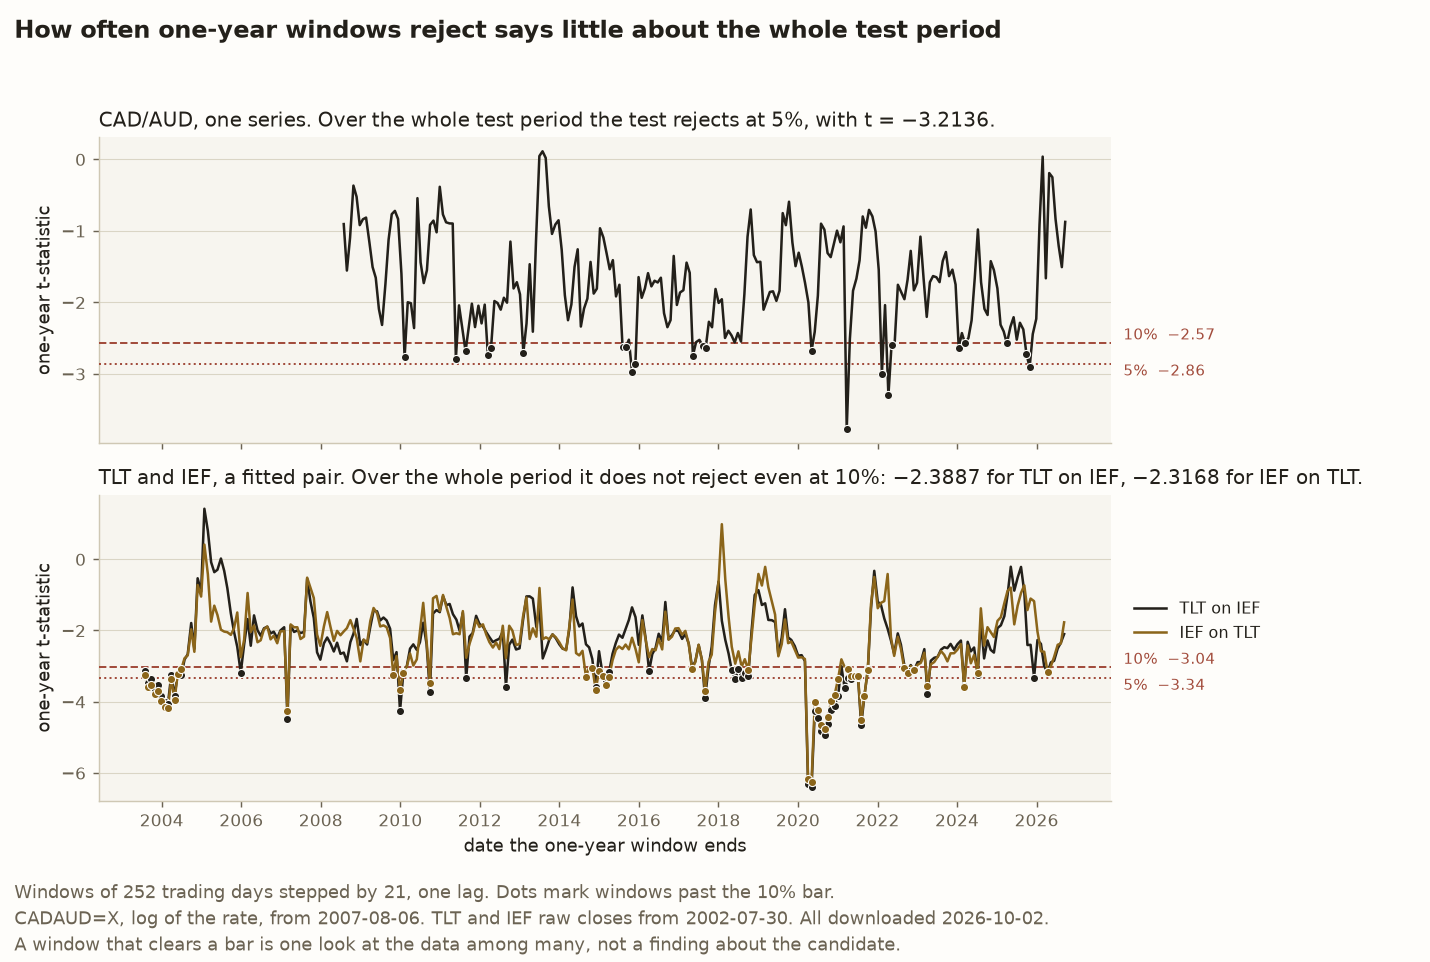
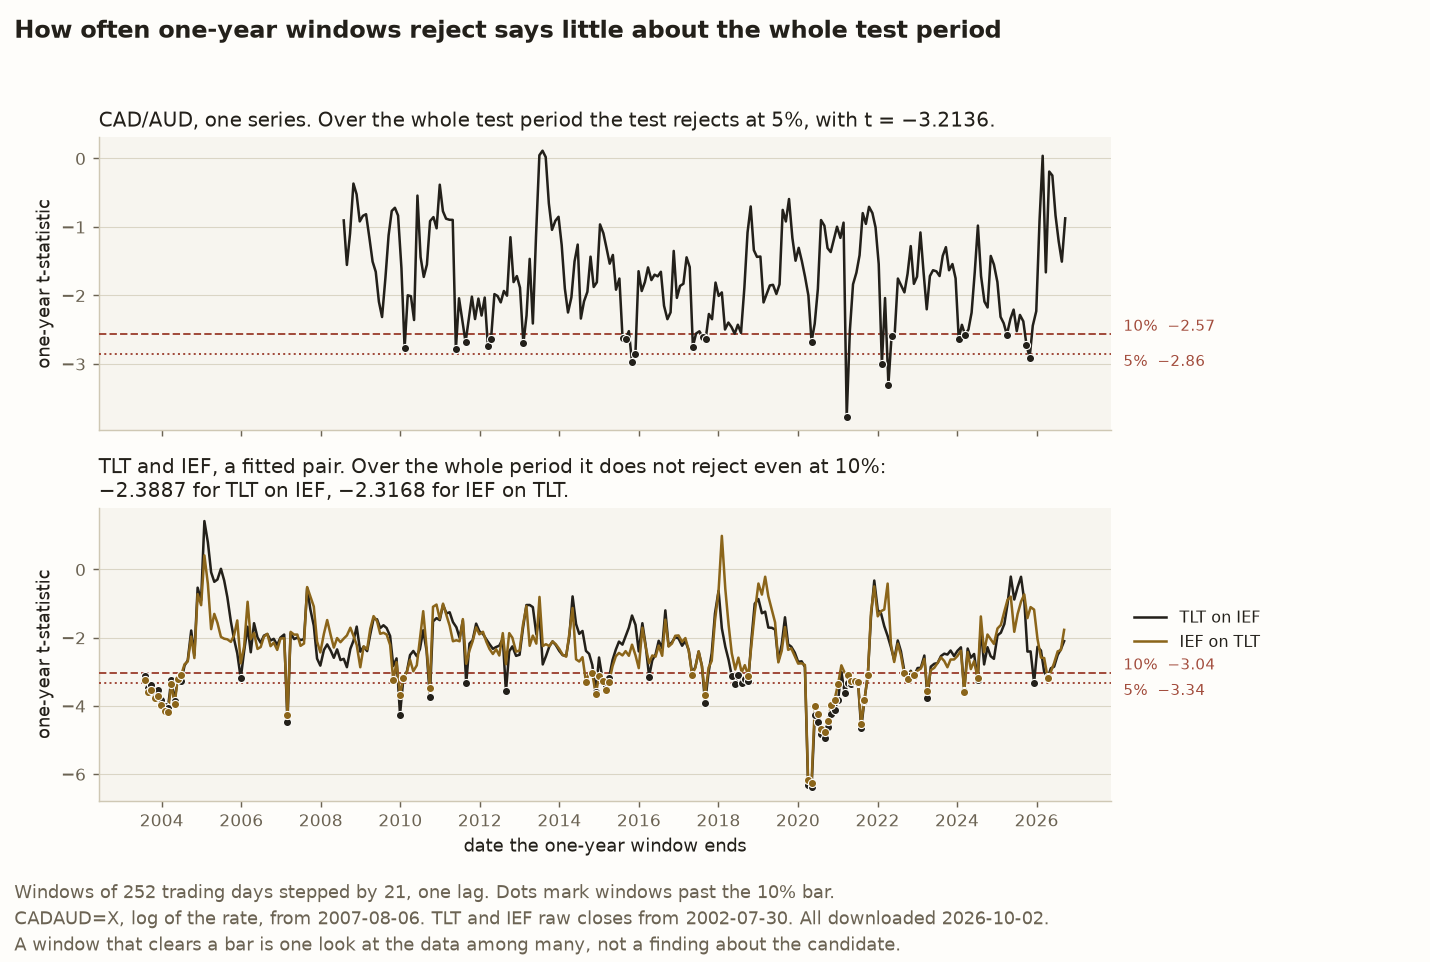
fix(figures): act on the lag figure's review
- The pair's leader lines run across and then straight up to lag 31, where
  the straight lines read as pointing at the hollow dot at 30, and TLT's
  dots are drawn larger so IEF's sit inside them rather than hiding them.
- The titles say what the panels show: the check picks which lag count's
  statistic is read, CAD/AUD's first passing fit sits nearer the 5% bar, and
  no count of the pair's reaches the 10% bar, which a test now pins.
- Both labels read "first passes at", the window figure's lower title wraps
  inside the plot, and the alt text names CAD/AUD's hollow dots at 23 to 25
  lags, which a test pins.
- Tests now hold the dots' heights, each legend's names against its line
  colours, the full set of bars on each panel, and the y labels. Five
  mutations the review found surviving now fail a test each.
- The register row gives the three reversals in the order they happened.

diff --git a/tests/test_stationary_candidates_figures.py b/tests/test_stationary_candidates_figures.py
@@ -377,7 +377,15 @@ class TestTheWindows:
             assert set(bar.get_ydata()) == {table[level]}
             assert bar.get_linestyle() == style
             assert _rgb(bar.get_color()) == _rgb(LOST)
-        assert f"bar-{'eg' if name == 'adf' else 'adf'}-10%" not in lines
+        assert {g for g in lines if g.startswith("bar-")} == {f"bar-{name}-10%", f"bar-{name}-5%"}
+
+    def test_the_legend_names_each_orientation_in_its_line_s_colour(self, windows) -> None:
+        legend = windows.axes[1].get_legend()
+        named = {
+            t.get_text(): _rgb(h.get_color())
+            for t, h in zip(legend.get_texts(), legend.legend_handles, strict=True)
+        }
+        assert named == {"TLT on IEF": _rgb(INK), "IEF on TLT": _rgb(ACCENT)}
 
     def test_the_bar_labels_name_each_level(self, windows) -> None:
         assert [t.get_text() for t in windows.axes[0].texts] == ["10%  −2.57", "5%  −2.86"]
@@ -391,8 +399,8 @@ class TestTheWindows:
             "with t = −3.2136."
         )
         assert windows.axes[1].get_title(loc="left") == (
-            "TLT and IEF, a fitted pair. Over the whole period it does not reject even at "
-            "10%: −2.3887 for TLT on IEF, −2.3168 for IEF on TLT."
+            "TLT and IEF, a fitted pair. Over the whole period it does not reject even at 10%:\n"
+            "−2.3887 for TLT on IEF, −2.3168 for IEF on TLT."
         )
 
     def test_the_panels_share_one_date_axis(self, windows) -> None:
@@ -487,8 +495,12 @@ class TestTheLags:
         assert list(line.get_ydata()) == [c.adf_stat for c in checks]
         assert _rgb(line.get_color()) == _rgb(colour)
         filled, hollow = lines[f"pass-{gid}"], lines[f"fail-{gid}"]
-        assert list(filled.get_xdata()) == [c.lags for c in checks if residuals_pass(c)]
-        assert list(hollow.get_xdata()) == [c.lags for c in checks if not residuals_pass(c)]
+        passed = [c for c in checks if residuals_pass(c)]
+        failed = [c for c in checks if not residuals_pass(c)]
+        assert list(filled.get_xdata()) == [c.lags for c in passed]
+        assert list(filled.get_ydata()) == [c.adf_stat for c in passed]
+        assert list(hollow.get_xdata()) == [c.lags for c in failed]
+        assert list(hollow.get_ydata()) == [c.adf_stat for c in failed]
         assert _rgb(filled.get_markerfacecolor()) == _rgb(colour)
         assert hollow.get_markerfacecolor() == "none"
         assert _rgb(hollow.get_markeredgecolor()) == _rgb(colour)
@@ -498,12 +510,25 @@ class TestTheLags:
         assert max(stats) < ADF_CRIT_CONST["5%"]
         assert max(stats) == pytest.approx(-2.8739, abs=5e-5)
 
+    def test_the_rate_fails_the_check_below_10_lags_and_again_at_23_to_25(self, sweeps) -> None:
+        """The post's alt text names both stretches of hollow dots."""
+        failed = [c.lags for c in sweeps["cadaud"] if not residuals_pass(c)]
+        assert failed == [*range(10), 23, 24, 25]
+
+    def test_no_pair_fit_reaches_the_10_percent_bar_as_the_panel_title_says(self, sweeps) -> None:
+        """The lowest statistic in either sweep is the one-lag fit's."""
+        for gid, one_lag in (("tlt-on-ief", -2.3887), ("ief-on-tlt", -2.3168)):
+            stats = [c.adf_stat for c in sweeps[gid]]
+            assert min(stats) > EG_CRIT_N2["10%"]
+            assert min(stats) == pytest.approx(one_lag, abs=5e-5) == stats[1]
+            assert [c.lags for c in sweeps[gid] if residuals_pass(c)] == [31, 32, 33, 34]
+
     def test_the_first_passing_fits_are_labelled_where_they_sit(self, lags) -> None:
         labelled = [
             (t.get_text(), t.xy) for ax in lags.axes[:2] for t in ax.texts if "pass" in t.get_text()
         ]
         assert [text for text, _ in labelled] == [
-            "first count that passes: 10 lags, −2.9946",
+            "CAD/AUD, first passes at 10 lags, −2.9946",
             "TLT on IEF, first passes at 31 lags, −1.5677",
             "IEF on TLT, first passes at 31 lags, −1.5387",
         ]
@@ -517,20 +542,31 @@ class TestTheLags:
         lines = _lines(lags.axes[panel])
         for level in ("10%", "5%"):
             assert set(lines[f"bar-{name}-{level}"].get_ydata()) == {table[level]}
+        assert {g for g in lines if g.startswith("bar-")} == {f"bar-{name}-10%", f"bar-{name}-5%"}
+
+    def test_the_legend_names_each_orientation_in_its_line_s_colour(self, lags) -> None:
+        legend = lags.axes[1].get_legend()
+        named = {
+            t.get_text(): _rgb(h.get_color())
+            for t, h in zip(legend.get_texts(), legend.legend_handles, strict=True)
+        }
+        assert named == {"TLT on IEF": _rgb(INK), "IEF on TLT": _rgb(ACCENT)}
 
     def test_the_text_says_what_each_panel_shows(self, lags) -> None:
         top, bottom = lags.axes[:2]
         assert top.get_title(loc="left") == (
-            "CAD/AUD. The check shrinks the margin: every count up to 32 still rejects at 5%."
+            "CAD/AUD. The first fit that passes sits nearer the 5% bar, and every count up to "
+            "32 still rejects at 5%."
         )
         assert bottom.get_title(loc="left") == (
-            "TLT and IEF. The check strengthens the finding: the first fits that pass sit "
-            "further from the bar."
+            "TLT and IEF. The first fits that pass sit further from both bars than the one-lag "
+            "fits, and no count reaches the 10% bar."
         )
+        assert [ax.get_ylabel() for ax in (top, bottom)] == ["t-statistic"] * 2
         assert top.get_shared_x_axes().joined(top, bottom)
         assert bottom.get_xlabel() == "lag count, the number of earlier changes the ADF includes"
         assert lags._suptitle.get_text() == (
-            "Checking each fit for leftover autocorrelation moves the statistic"
+            "The check for leftover autocorrelation decides which lag count's statistic is read"
         )
         assert lags.texts[-1].get_text() == (
             "Each dot is one ADF fit over the whole test period. Filled: its residuals pass "

diff --git a/src/chan/stationary_candidates_figures.py b/src/chan/stationary_candidates_figures.py
@@ -329,8 +329,8 @@ def make_windows_figure(
         )
     _bar_lines(bottom, EG_CRIT_N2, "eg")
     bottom.set_title(
-        "TLT and IEF, a fitted pair. Over the whole period it does not reject even at "
-        f"10%: {_t(by[LONG].fit.adf_stat)} for TLT on IEF, "
+        "TLT and IEF, a fitted pair. Over the whole period it does not reject even at 10%:\n"
+        f"{_t(by[LONG].fit.adf_stat)} for TLT on IEF, "
         f"{_t(by[INTERMEDIATE].fit.adf_stat)} for IEF on TLT.",
         color=INK,
         fontsize=11,
@@ -367,7 +367,9 @@ def lag_sweep(series, ceiling: int, regression: str) -> list[ResidualCheck]:
     return [residual_check(series, lags, regression=regression) for lags in range(ceiling + 1)]
 
 
-def _sweep(ax, checks: list[ResidualCheck], colour: str, label: str, gid: str) -> None:
+def _sweep(
+    ax, checks: list[ResidualCheck], colour: str, label: str, gid: str, ms: float = 5.5
+) -> None:
     """One sweep as a line, with each lag count filled if it passes."""
     lags = [c.lags for c in checks]
     stats = [c.adf_stat for c in checks]
@@ -378,7 +380,7 @@ def _sweep(ax, checks: list[ResidualCheck], colour: str, label: str, gid: str) -
             [c.lags for c in picked],
             [c.adf_stat for c in picked],
             "o",
-            ms=5.5,
+            ms=ms,
             color=colour,
             mfc=face,
             mec=colour,
@@ -388,16 +390,28 @@ def _sweep(ax, checks: list[ResidualCheck], colour: str, label: str, gid: str) -
         )
 
 
-def _first_pass(ax, checks: list[ResidualCheck], text: str, offset: tuple[float, float]) -> None:
+def _first_pass(
+    ax, checks: list[ResidualCheck], text: str, offset: tuple[float, float], below: bool = False
+) -> None:
+    """Label the first passing fit.
+
+    ``below`` sets the label under and to the left of the point, joined by a
+    leader that runs across and then straight up. A straight leader from there
+    would cross the hollow dot one lag count earlier and read as pointing at
+    it, which is how the pair's labels first came out."""
     first = next(c for c in checks if residuals_pass(c))
+    arrow = {"arrowstyle": "-", "color": MUTED, "lw": 0.8}
+    if below:
+        arrow |= {"connectionstyle": "angle,angleA=0,angleB=90,rad=0", "relpos": (1.0, 0.5)}
     ax.annotate(
         text.format(lags=first.lags, t=_t(first.adf_stat)),
         (first.lags, first.adf_stat),
         xytext=offset,
         textcoords="offset points",
+        ha="right" if below else "left",
         color=INK,
         fontsize=9.5,
-        arrowprops={"arrowstyle": "-", "color": MUTED, "lw": 0.8},
+        arrowprops=arrow,
     )
 
 
@@ -422,16 +436,21 @@ def make_lags_figure(
 
     _sweep(top, rate_checks, INK, "CAD/AUD", "cadaud")
     _bar_lines(top, ADF_CRIT_CONST, "adf")
-    _first_pass(top, rate_checks, "first count that passes: {lags} lags, {t}", (30, 48))
+    _first_pass(top, rate_checks, "CAD/AUD, first passes at {lags} lags, {t}", (30, 48))
     top.set_title(
-        f"CAD/AUD. The check shrinks the margin: every count up to {rate.ceiling} still "
-        "rejects at 5%.",
+        "CAD/AUD. The first fit that passes sits nearer the 5% bar, and every count up to "
+        f"{rate.ceiling} still rejects at 5%.",
         color=INK,
         fontsize=11,
         loc="left",
     )
 
-    for leg, colour, offset in ((LONG, INK, (-250, -78)), (INTERMEDIATE, ACCENT, (-250, -98))):
+    # TLT's dots are drawn larger and first, so IEF's sit inside them and both
+    # show where the two sweeps all but coincide.
+    for leg, colour, offset, ms in (
+        (LONG, INK, (-14, -78), 7.5),
+        (INTERMEDIATE, ACCENT, (-14, -98), 4.5),
+    ):
         o = by[leg]
         name = f"{o.dependent} on {o.independent}"
         _sweep(
@@ -440,12 +459,15 @@ def make_lags_figure(
             colour,
             name,
             f"{o.dependent.lower()}-on-{o.independent.lower()}",
+            ms,
         )
-        _first_pass(bottom, pair_checks[leg], name + ", first passes at {lags} lags, {t}", offset)
+        _first_pass(
+            bottom, pair_checks[leg], name + ", first passes at {lags} lags, {t}", offset, True
+        )
     _bar_lines(bottom, EG_CRIT_N2, "eg")
     bottom.set_title(
-        "TLT and IEF. The check strengthens the finding: the first fits that pass sit "
-        "further from the bar.",
+        "TLT and IEF. The first fits that pass sit further from both bars than the one-lag "
+        "fits, and no count reaches the 10% bar.",
         color=INK,
         fontsize=11,
         loc="left",
@@ -461,7 +483,7 @@ def make_lags_figure(
 
     _title(
         fig,
-        "Checking each fit for leftover autocorrelation moves the statistic",
+        "The check for leftover autocorrelation decides which lag count's statistic is read",
         "Each dot is one ADF fit over the whole test period. Filled: its residuals pass "
         "both halves of the check, a Breusch-Godfrey p-value above 0.10\n"
         "and all ten autocorrelations inside ±1.96/√n. Hollow: they fail. "

diff --git a/docs/design.md b/docs/design.md
@@ -529,7 +529,7 @@ change that cuts it.
 | Porting the sibling's `simulate_sizing` for the coin-flip simulation | It folds draws through `equity *= (1 + fraction * r)`, which is the identity Box 6.1 needs, and nothing around that line carries over: an empirical bag of trade outcomes rather than a known two-point distribution, percentiles and ruin probabilities rather than a growth rate, and `random.Random` rather than the `numpy.random.default_rng` this repo uses throughout. A port would have been a rewrite. |
 | Moving the growth arithmetic to `ithildincore` | The bar there is two repositories, not two call sites, and the duplication does not exist. `ithildincore` holds no growth function and the sibling holds one line inside a grid search, so a shared module today would have one consumer and a plan. The price is named rather than hidden: a second implementation later if [issue 14](https://github.com/l3a0/quantitative-trading/issues/14) needs the same arithmetic. That is the moment to re-ask, because it is the first at which a second real consumer could exist. Re-asked when [issue 14](https://github.com/l3a0/quantitative-trading/issues/14) shipped and the answer is unchanged. The sibling repo was searched at `cc1ec3a` and holds no leverage or growth arithmetic at all, only a Sharpe ratio written twice as a four-line private helper inside a strategy module, so there is still one consumer and a plan. [Issue 14](https://github.com/l3a0/quantitative-trading/issues/14)'s own arithmetic shares no function with the coin flip either, since one computes a leverage from a return series' moments and the other a growth rate over two outcomes. |
 | A figure for the coin-flip divergence | `docs/figures` held one image when this was decided, and it already cost three copies to keep in step, one file and two embeds, plus a redraw in the same change that moves it. The divergence is four rows of capital, which a terminal table and a log row carry without adding a third copy of a number the suite already pins. [blog/coin-toss-expected-value-vs-growth.md](../blog/coin-toss-expected-value-vs-growth.md) later added that third copy, as a four-row table of ratios, so a re-pin now moves three surfaces. That is still text a re-pin edits in place, where an image would need a redraw and its embeds. **Reversed by the owner on 2026-09-29**, who chose three figures for that post knowing this row: growth against the stake, a fan of capital paths, and the distribution of final balances. [src/chan/coin_flip_figures.py](../src/chan/coin_flip_figures.py) draws them and [tests/test_coin_flip_figures.py](../tests/test_coin_flip_figures.py) pins what they draw. The cost named above is now paid, three files and three embeds plus a redraw in any change that moves them. The owner added two more the same day, for Lesson 6, so the count is five of each. The row stays so the reasoning and its reversal are read together. |
-| Figures for the stationary candidates | Ruled out on [issue 16](https://github.com/l3a0/quantitative-trading/issues/16), on the reasoning of the regime-map row above: the candidates' rolling scans are pinned, so a picture of them is presentation, and each of the three scans invites reading one window as a finding. **Reversed by the owner on 2026-10-02** for [blog/stationary-candidates-lessons.md](../blog/stationary-candidates-lessons.md), first for figures that draw no scan and then for the scans themselves. The post carries three. The first is two number lines carrying the bars of the ADF with a constant and of Engle-Granger, with the cross rate's and the bond pair's statistics over the whole test period on them. The second draws each candidate's statistic at every lag count up to the ceiling, filled where the residuals pass the check. Neither draws a window. The third draws the rolling scans, so the second reversal reaches the whole ruling. It responds to the objection in words rather than avoiding it: its title says how often one-year windows reject says little about the whole test period, each panel's title gives the result over that period, its note says a window that clears a bar is not a finding, and its dots take each line's own colour rather than the green the regime map gives cointegrating windows. The post's Lesson 4 says the same beside it. [src/chan/stationary_candidates_figures.py](../src/chan/stationary_candidates_figures.py) draws all three and [tests/test_stationary_candidates_figures.py](../tests/test_stationary_candidates_figures.py) pins what they draw. The part of the objection none of them answers is the cost: three more files and three more embeds to keep in step, and a redraw in any change that moves a statistic, a lag sweep or a scan they draw. The row stays so the ruling and its reversals are read together. |
+| Figures for the stationary candidates | Ruled out on [issue 16](https://github.com/l3a0/quantitative-trading/issues/16), on the reasoning of the regime-map row above: the candidates' rolling scans are pinned, so a picture of them is presentation, and each of the three scans invites reading one window as a finding. **Reversed by the owner on 2026-10-02** for [blog/stationary-candidates-lessons.md](../blog/stationary-candidates-lessons.md), three times in one day: for a figure that draws no scan, then for the scans themselves, then for a lag sweep that draws none. The post carries all three. In the post's order, the first is two number lines carrying the bars of the ADF with a constant and of Engle-Granger, with the cross rate's and the bond pair's statistics over the whole test period on them. The second draws each candidate's statistic at every lag count up to the ceiling, filled where the residuals pass the check. Neither draws a window. The third draws the rolling scans, so its reversal reaches the whole ruling. It responds to the objection in words rather than avoiding it: its title reads "How often one-year windows reject says little about the whole test period", each panel's title gives the result over that period, its note says a window that clears a bar is not a finding, and its dots take each line's own colour rather than the green the regime map gives cointegrating windows. The post's Lesson 4 says the same beside it. [src/chan/stationary_candidates_figures.py](../src/chan/stationary_candidates_figures.py) draws all three and [tests/test_stationary_candidates_figures.py](../tests/test_stationary_candidates_figures.py) pins what they draw. The part of the objection none of them answers is the cost: three more files and three more embeds to keep in step, and a redraw in any change that moves a statistic, a lag sweep or a scan they draw. The row stays so the ruling and its reversals are read together. |
 | A repo-wide `* text=auto eol=lf` | The exposure it would answer stops at `data/`. Measured on a clone of `main` made with `core.autocrlf=true`, `docs/figures/reproduction_regime_map.png` is byte-identical, because git detects a PNG as binary on its own, and `ruff check` and `ruff format --check` both pass over the rewritten sources. A rule reaching the whole repository would be fixing past the class it was written for. `.gitattributes` names `data/**` and stops there, which is what [issue 41](https://github.com/l3a0/quantitative-trading/issues/41) built. |
 | `data/** text eol=lf` as the spelling of that rule | The two spellings agree on every file this repo holds, because both deliver LF for content already stored as LF, so no comparison of bytes tells them apart on today's data. That is why `tests/test_checkout_bytes.py` reads the attribute itself in a second case. They differ on content carrying a carriage return. Committing such a file from a checkout with `core.autocrlf=true` stores the bytes on disk under `-text` and stores them with the carriage returns gone under `text eol=lf`, which git reports only as a warning. A vintage's sha256 is recorded before the commit, so that spelling turns a recorded fact into a false one and leaves no way back to the bytes. `-text` forbids conversion. `text eol=lf` only promises which ending git picks when it rewrites. `binary` is cut for a different reason. It is a macro for `-text`, `-diff` and `-merge`, so it would also stop the textual three-way merge on a vintage. A vintage's diff is how a replacement gets read, and [data/README.md](../data/README.md) already calls replacing one a deliberate act with a visible cost. `tests/test_checkout_bytes.py` pins that too, because `binary` holds the bytes as well as `-text` does and no byte comparison separates them. |
 | Comparing a symbol's raw vintage against its adjusted one as the scale-break detector | A split rescales both bases together, so dividing one by the other cancels the thing the detector is looking for. Measured on GDX's two committed vintages, the adjusted-over-raw ratio moves by at most 0.0163 on any single day the two vintages share, which is dividend drift rather than a split, and [tests/test_scale_breaks.py](../tests/test_scale_breaks.py) pins that number so the dead end is not re-derived. It also needs two vintages of one symbol on different bases, which only GLD and GDX have, so it could say nothing about the `chan-xls` files, and `ko_chan.csv` is where the finding actually is. `scale_breaks` in [src/chan/series.py](../src/chan/series.py) reads each series against itself instead, which needs nothing external. |

diff --git a/blog/stationary-candidates-lessons.md b/blog/stationary-candidates-lessons.md
@@ -101,9 +101,9 @@ The two halves of the check did different work here. Every autocorrelation is in
 
 The search for a passing lag count needs a ceiling, or it becomes a hunt for the lag count that gives the wanted answer. Schwert’s rule, 12·(n/100)^(1/4), rounded up the way the statsmodels library rounds it, sets the ceiling from the sample size before any statistic is read. It gives 34 lags at TLT and IEF’s 6,083 days, 32 at the rate’s 4,984 and 33 at GLD/GDX’s 5,099. Long histories push the ceiling up, and on the bond pair the first pass landed close to it.
 
-![Two panels of ADF t-statistics against the lag count, with one dot per lag count. The upper panel shows CAD/AUD at every count from 0 to 32, all below the 5% bar of −2.86. Its dots are hollow from 0 to 9 lags, where the residuals fail the check, and the first filled dot is at 10 lags, at −2.9946. The lower panel shows TLT regressed on IEF and IEF regressed on TLT at every count from 0 to 34, against the pair’s bars of −3.04 and −3.34. Their dots stay hollow until 31 lags, where the statistics are −1.5677 and −1.5387, higher than at one lag.](../docs/figures/stationary_candidates_lags.png)
+![Two panels of ADF t-statistics against the lag count, with one dot per lag count. The upper panel shows CAD/AUD at every count from 0 to 32, all below the 5% bar of −2.86. Its dots are hollow from 0 to 9 lags, where the residuals fail the check, and the first filled dot is at 10 lags, at −2.9946. Three more are hollow, at 23 to 25 lags. The lower panel shows TLT regressed on IEF and IEF regressed on TLT at every count from 0 to 34, against the pair’s bars of −3.04 and −3.34. No count reaches the 10% bar. Their dots stay hollow until 31 lags, where the statistics are −1.5677 and −1.5387, higher than at one lag.](../docs/figures/stationary_candidates_lags.png)
 
-*Filled dots are fits whose residuals pass the check. On CAD/AUD the first one still clears the 5% bar. On TLT and IEF it sits further from the bars than the one-lag fit does.*
+*Filled dots are fits whose residuals pass the check. On CAD/AUD the first one still clears the 5% bar. On TLT and IEF they sit further from the bars than the one-lag fits do.*
 
 ## Lesson 4: a rate that tests stationary over nineteen years rarely does so within one year
 
